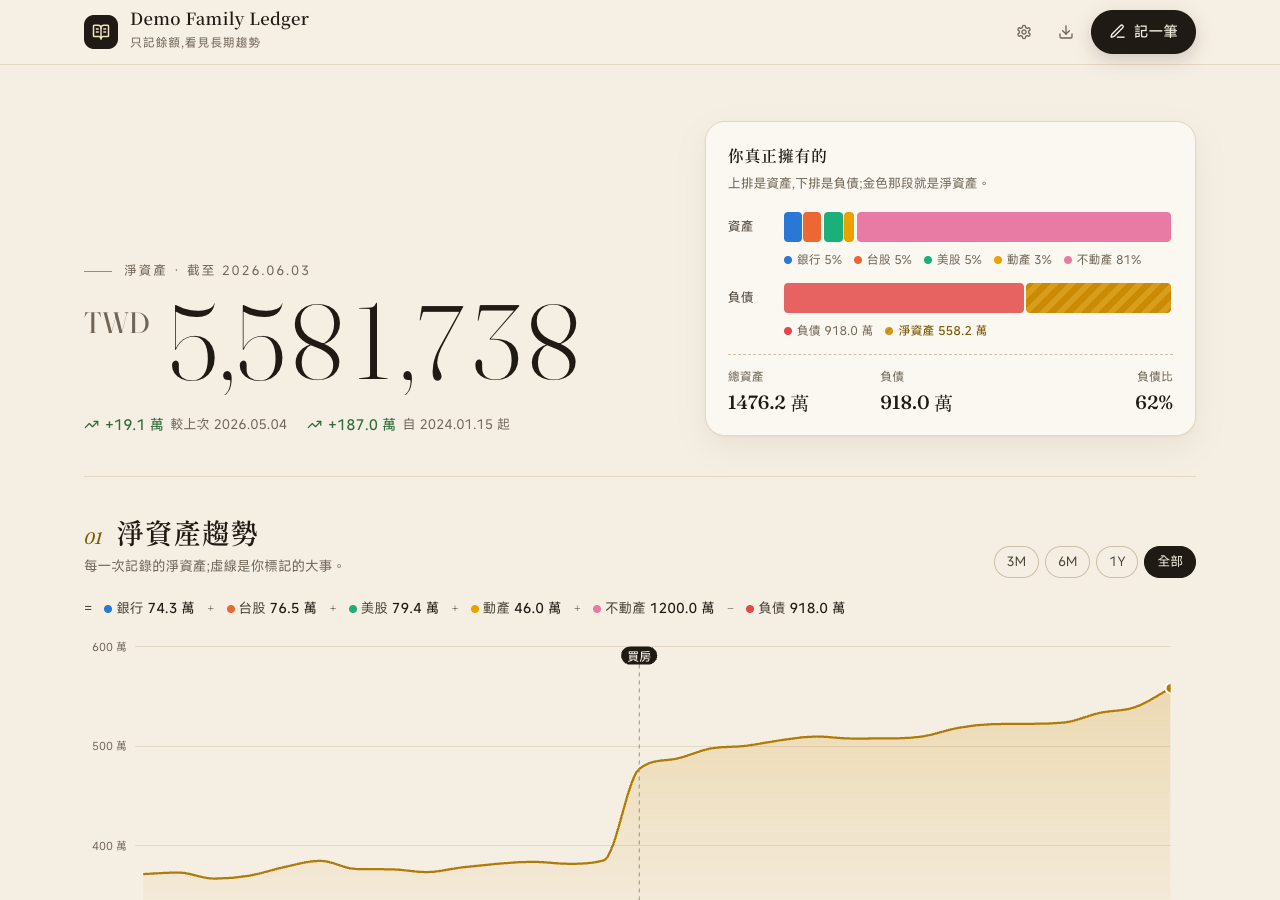
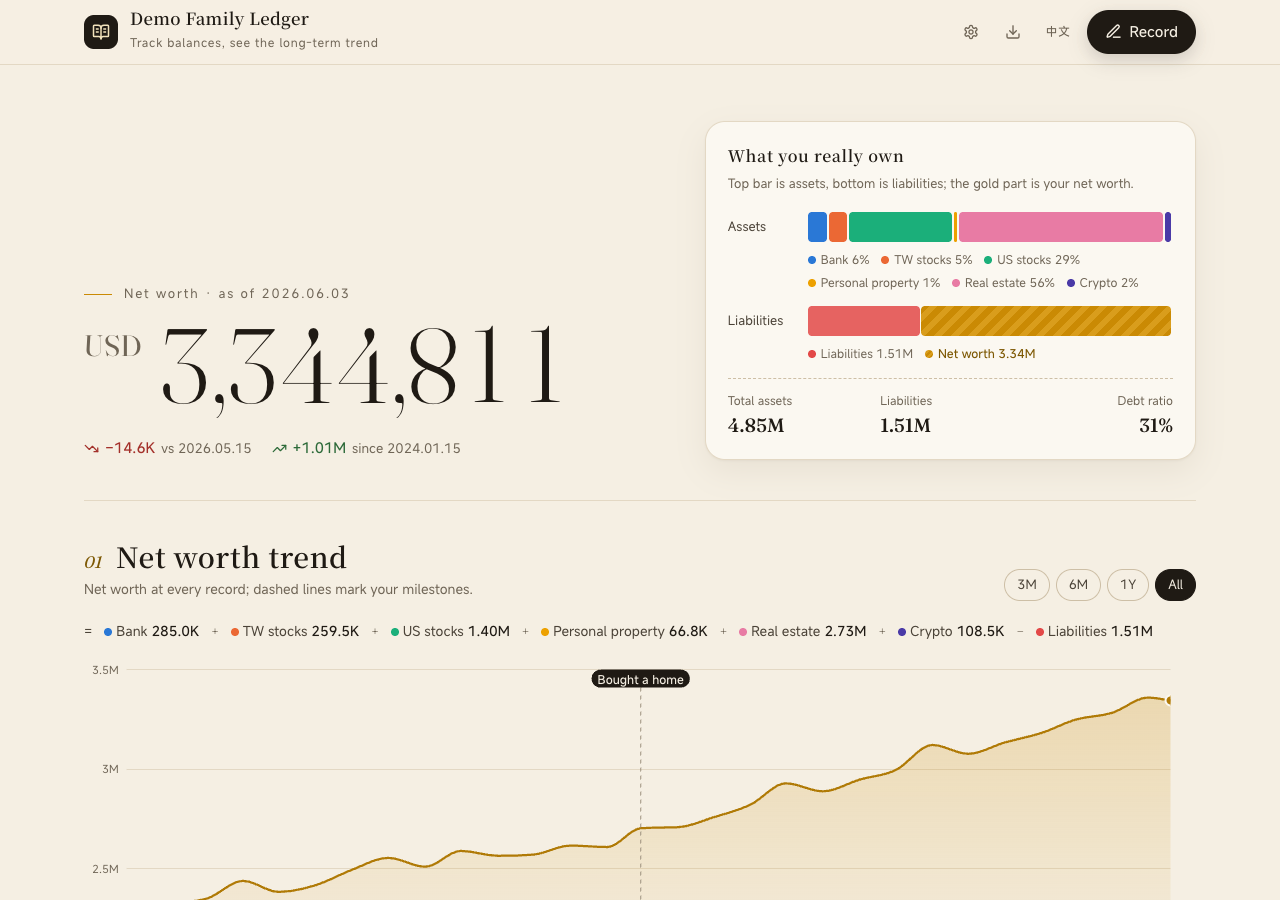
docs: English-first README, per-language screenshots
- README.md is now English; the Chinese README moves to
  docs/README.zh-TW.md
- new demo screenshots: USD ledger in the English UI, TWD ledger
  (net worth ~1.08億) in the Chinese UI
- feature tables mention the bilingual UI

Claude-Session: https://claude.ai/code/session_01CVaNqET9EYhqHLhm8LeRL5

diff --git a/README.md b/README.md
@@ -1,49 +1,52 @@
 <div align="center">
   <img src="docs/logo.svg" alt="wealth logo" width="96" />
   <h1>wealth</h1>
-  <p><b>只記餘額的家庭資產帳本</b><br>不記每一筆消費,想到時更新帳戶餘額,就看得到淨資產的長期趨勢。</p>
+  <p><b>A household net-worth ledger that tracks balances, not transactions.</b><br>Update your account balances now and then; see where your net worth is heading.</p>
 </div>
 
 <p align="center">
   <a href="https://github.com/SammyLin/wealth/actions/workflows/test.yml"><img alt="test" src="https://github.com/SammyLin/wealth/actions/workflows/test.yml/badge.svg" /></a>
   <a href="LICENSE"><img alt="License: MIT" src="https://img.shields.io/github/license/SammyLin/wealth?style=flat-square" /></a>
   <a href="go.mod"><img alt="Go" src="https://img.shields.io/github/go-mod/go-version/SammyLin/wealth?style=flat-square" /></a>
-  <a href="#部署到-cloudflare-workers"><img alt="Cloudflare Workers" src="https://img.shields.io/badge/Cloudflare_Workers-supported-F38020?style=flat-square" /></a>
-  <a href="#自架"><img alt="Self-host" src="https://img.shields.io/badge/self--host-SQLite-003B57?style=flat-square" /></a>
+  <a href="#deploy-to-cloudflare-workers"><img alt="Cloudflare Workers" src="https://img.shields.io/badge/Cloudflare_Workers-supported-F38020?style=flat-square" /></a>
+  <a href="#self-host"><img alt="Self-host" src="https://img.shields.io/badge/self--host-SQLite-003B57?style=flat-square" /></a>
 </p>
 
 <p align="center">
-  繁體中文 | <a href="docs/README.en.md">English</a>
+  English | <a href="docs/README.zh-TW.md">繁體中文</a>
 </p>
 
 ![screenshot](docs/screenshot.png)
 
-## 為什麼
+> The UI is in Traditional Chinese and amounts are shown in 萬 (10,000) units. Contributions for other languages are welcome.
 
-記帳 App 大多要你記下每一筆消費。持續記半年的人不多,而真正想知道的通常只是:**我們家的錢,這幾年是變多還是變少?**
+## Why
 
-wealth 只做這件事。每個帳戶(銀行、證券、房子、房貸)偶爾記一次餘額,其餘交給它:
+Most budgeting apps want every single expense. Few people keep that up for long, and the question most households actually have is simpler: **is our money growing or shrinking over the years?**
 
-- **沒更新的帳戶自動沿用上一筆**,不會因為少記一個帳戶,淨資產就像掉下去。
-- **外幣照當天匯率換算**,自動抓匯率,美股不會被匯率記成一團亂。
-- **大事會畫在圖上**:買房、換工作這類轉折,回頭看曲線時一眼對得上。
-- **房貸看得到未來**:寬限期何時結束、月付哪個月會跳、何時繳清。
+wealth answers just that. Record a balance for each account (bank, brokerage, house, mortgage) whenever you remember, and it does the rest:
 
-## 功能
+- **Accounts you skip carry their last balance forward**, so forgetting one account doesn't look like a crash.
+- **Foreign currencies use that day's rate**, fetched automatically.
+- **Life events are drawn on the chart** (buying a house, a new job), so turns in the curve explain themselves.
+- **Mortgages show the future**: when the interest-only period ends, which month the payment jumps, when it's paid off.
+
+## Features
 
 | | |
 |---|---|
-| **淨資產趨勢** | 曲線按實際日期排,不均勻的記錄間隔不會被拉平;拖曳可放大某段期間 |
-| **資產組成** | 各類資產堆疊圖,可複選只看幾類 |
-| **資產負債表** | 資產 = 負債 + 淨資產,兩邊合計相等 |
-| **房貸** | 本金、利率、撥款日、寬限期、期數 → 每月月付、月付變化、繳清日 |
-| **多幣別** | 每筆紀錄存當天匯率,「記一筆」自動帶入;基準幣別可設定 |
-| **全部可改** | 帳本名稱、帳戶、過去每筆餘額、貸款、大事都能編輯或刪除 |
-| **匯出** | CSV(Excel 直接開);自架版另有完整 `.db` 下載與每日自動備份 |
+| **Net-worth trend** | Plotted on real dates, so uneven gaps stay uneven; drag to zoom into a period |
+| **Composition** | Stacked chart by asset class, multi-select filter |
+| **Balance sheet** | Assets = liabilities + net worth, both sides add up |
+| **Mortgages** | Principal, rate, start date, grace period, term → monthly payment, payment changes, payoff date |
+| **Multi-currency** | Each record stores that day's FX rate, prefilled automatically; configurable base currency |
+| **Everything editable** | Ledger name, accounts, every past balance, loans and events can be edited or deleted |
+| **English & 繁體中文** | UI follows the browser language; switch anytime from the top bar |
+| **Export** | CSV (opens in Excel); self-hosted also offers a full `.db` download and daily backups |
 
-## 快速開始
+## Quick start
 
-需要 Go 1.25+。
+Requires Go 1.25+.
 
 ```sh
 git clone https://github.com/SammyLin/wealth.git
@@ -51,67 +54,67 @@ cd wealth
 go run ./cmd/wealth
 ```
 
-打開 http://127.0.0.1:8080:
+Open http://127.0.0.1:8080:
 
-1. **⚙ 設定**:帳本名稱、基準幣別(開始記帳後就不能改)
-2. **新增帳戶**:名稱、類別(銀行/台股/美股/動產/不動產/加密貨幣/負債)、幣別
-3. **記一筆**:填各帳戶目前餘額,外幣匯率自動帶入
-4. 之後每隔一陣子再「記一筆」,改有變動的帳戶就好
+1. **⚙ Settings**: ledger name and base currency (locked once you record balances)
+2. **新增帳戶 (add account)**: name, kind (bank / TW stocks / US stocks / movable / real estate / crypto / liability), currency
+3. **記一筆 (record)**: enter current balances; FX rates are filled in for you
+4. Come back every so often and update only what changed
 
-## 自架
+## Self-host
 
-單一執行檔 + SQLite,資料存在本機檔案。
+A single binary with SQLite on disk.
 
 ```sh
-WEALTH_PASS=secret WEALTH_ADDR=:8080 go run ./cmd/wealth   # 對外開放時必須設密碼(basic auth)
+WEALTH_PASS=secret WEALTH_ADDR=:8080 go run ./cmd/wealth   # a password is required on non-localhost addresses
 ```
 
-| 環境變數 | 預設 | 說明 |
+| Variable | Default | Meaning |
 |---|---|---|
-| `WEALTH_DB` | `wealth.db` | SQLite 檔案 |
-| `WEALTH_ADDR` | `127.0.0.1:8080` | 監聽位址;不是本機位址時一定要設 `WEALTH_PASS` |
-| `WEALTH_USER` / `WEALTH_PASS` | `me` / 空 | basic auth |
-| `WEALTH_BACKUP_DIR` | `backups` | 每天自動備份一份,保留最近 30 份 |
+| `WEALTH_DB` | `wealth.db` | SQLite file |
+| `WEALTH_ADDR` | `127.0.0.1:8080` | Listen address; `WEALTH_PASS` is required unless it's localhost |
+| `WEALTH_USER` / `WEALTH_PASS` | `me` / empty | Basic auth |
+| `WEALTH_BACKUP_DIR` | `backups` | Daily backup, newest 30 kept |
 
-備份請用 SQLite 的線上備份,不要直接 `cp`(WAL 模式下資料可能還在 `-wal` 檔裡):
+Back up with SQLite's online backup, never `cp` (in WAL mode recent data may still be in the `-wal` file):
 
 ```sh
 sqlite3 wealth.db ".backup wealth-$(date +%F).db"
 ```
 
-## 部署到 Cloudflare Workers
+## Deploy to Cloudflare Workers
 
-同一份 Go 程式編成 WebAssembly 跑在 Workers 上([syumai/workers-go](https://github.com/syumai/workers-go)),資料存 D1。
+The same Go code compiles to WebAssembly and runs on Workers ([syumai/workers-go](https://github.com/syumai/workers-go)), with data in D1.
 
-1. `npx wrangler d1 create wealth`,把 `wrangler.jsonc` 複製成 `wrangler.local.jsonc`,填入 database id 和網域。
-2. 在 Cloudflare Zero Trust 建一個 Access application 保護這個網域,把團隊網域和 AUD tag 填進 `vars`。
-   **Worker 會驗證 Access 的 JWT;沒設定時會拒絕服務**(除非明確設 `ALLOW_PUBLIC=1`)。
-3. `make deploy-worker`(套用 migration 並部署)。
+1. `npx wrangler d1 create wealth`, copy `wrangler.jsonc` to `wrangler.local.jsonc`, fill in the database id and your domain.
+2. In Cloudflare Zero Trust, create an Access application for that domain and put the team domain and AUD tag in `vars`.
+   **The Worker verifies the Access JWT and refuses to serve without it** (unless you explicitly set `ALLOW_PUBLIC=1`).
+3. `make deploy-worker` (applies migrations, then deploys).
 
-> wasm 壓縮後約 6.6 MB,超過 Workers 免費方案的 3 MB 上限,需要 Workers Paid。D1 內建 30 天 Time Travel,可還原到任一時間點。
+> The wasm is about 6.6 MB gzipped, above the Workers free plan's 3 MB limit, so Workers Paid is required. D1 Time Travel can restore any point in the last 30 days.
 
-## 架構
+## Architecture
 
-| 檔案 | 內容 |
+| File | What it holds |
 |---|---|
-| `cmd/wealth/server.go` | 自架入口:SQLite、gzip、basic auth |
-| `cmd/wealth/worker.go` | Workers 入口:D1、Access 驗證 |
-| `internal/ledger/router.go` | 所有頁面與 API 路由(兩種部署共用) |
-| `internal/ledger/model.go` | 資料型別、各日期淨值序列、輸入檢查 |
-| `internal/ledger/store.go` | 設定與貸款的資料庫讀取 |
-| `internal/ledger/fx.go` | 匯率查詢 |
-| `internal/ledger/loan.go` | 寬限期只繳息 → 本息平均攤還的月付與餘額計算 |
-| `internal/ledger/access.go` | Cloudflare Access JWT 驗證 |
-| `internal/ledger/export.go` | CSV 匯出 |
-| `internal/ledger/backup.go` | 自架版的 .db 下載與每日備份 |
-| `embed.go` | 把 `web/` 和 `migrations/` 編進執行檔 |
-| `migrations/` | 資料表(兩種部署共用) |
-| `web/index.html` | 前端(單一檔案;Chart.js 捲到圖表時才載入) |
-| `web/icons.js` | 用到的 [lucide](https://lucide.dev) 圖示子集,由 `web/mkicons.cjs` 產生 |
+| `cmd/wealth/server.go` | Self-hosted entry: SQLite, gzip, basic auth |
+| `cmd/wealth/worker.go` | Workers entry: D1, Access verification |
+| `internal/ledger/router.go` | Every page and API route (shared by both targets) |
+| `internal/ledger/model.go` | Data types, net-worth series per date, input checks |
+| `internal/ledger/store.go` | Settings and loan queries |
+| `internal/ledger/fx.go` | Exchange-rate lookup |
+| `internal/ledger/loan.go` | Interest-only grace period → level-payment schedule and balance |
+| `internal/ledger/access.go` | Cloudflare Access JWT verification |
+| `internal/ledger/export.go` | CSV export |
+| `internal/ledger/backup.go` | Self-hosted .db download and daily backups |
+| `embed.go` | Compiles `web/` and `migrations/` into the binary |
+| `migrations/` | Schema (shared by both targets) |
+| `web/index.html` | Frontend (single file; Chart.js loads when a chart scrolls into view) |
+| `web/icons.js` | Subset of [lucide](https://lucide.dev) icons, generated by `web/mkicons.cjs` |
 
-## 參與
+## Contributing
 
-歡迎 issue 和 PR,開發方式見 [CONTRIBUTING.md](CONTRIBUTING.md)。
+Issues and PRs are welcome. See [CONTRIBUTING.md](CONTRIBUTING.md).
 
 ## License
 

diff --git a/docs/README.zh-TW.md b/docs/README.zh-TW.md
@@ -1,0 +1,119 @@
+<div align="center">
+  <img src="logo.svg" alt="wealth logo" width="96" />
+  <h1>wealth</h1>
+  <p><b>只記餘額的家庭資產帳本</b><br>不記每一筆消費,想到時更新帳戶餘額,就看得到淨資產的長期趨勢。</p>
+</div>
+
+<p align="center">
+  <a href="https://github.com/SammyLin/wealth/actions/workflows/test.yml"><img alt="test" src="https://github.com/SammyLin/wealth/actions/workflows/test.yml/badge.svg" /></a>
+  <a href="../LICENSE"><img alt="License: MIT" src="https://img.shields.io/github/license/SammyLin/wealth?style=flat-square" /></a>
+  <a href="../go.mod"><img alt="Go" src="https://img.shields.io/github/go-mod/go-version/SammyLin/wealth?style=flat-square" /></a>
+  <a href="#部署到-cloudflare-workers"><img alt="Cloudflare Workers" src="https://img.shields.io/badge/Cloudflare_Workers-supported-F38020?style=flat-square" /></a>
+  <a href="#自架"><img alt="Self-host" src="https://img.shields.io/badge/self--host-SQLite-003B57?style=flat-square" /></a>
+</p>
+
+<p align="center">
+  <a href="../README.md">English</a> | 繁體中文
+</p>
+
+![screenshot](screenshot.zh-TW.png)
+
+## 為什麼
+
+記帳 App 大多要你記下每一筆消費。持續記半年的人不多,而真正想知道的通常只是:**我們家的錢,這幾年是變多還是變少?**
+
+wealth 只做這件事。每個帳戶(銀行、證券、房子、房貸)偶爾記一次餘額,其餘交給它:
+
+- **沒更新的帳戶自動沿用上一筆**,不會因為少記一個帳戶,淨資產就像掉下去。
+- **外幣照當天匯率換算**,自動抓匯率,美股不會被匯率記成一團亂。
+- **大事會畫在圖上**:買房、換工作這類轉折,回頭看曲線時一眼對得上。
+- **房貸看得到未來**:寬限期何時結束、月付哪個月會跳、何時繳清。
+
+## 功能
+
+| | |
+|---|---|
+| **淨資產趨勢** | 曲線按實際日期排,不均勻的記錄間隔不會被拉平;拖曳可放大某段期間 |
+| **資產組成** | 各類資產堆疊圖,可複選只看幾類 |
+| **資產負債表** | 資產 = 負債 + 淨資產,兩邊合計相等 |
+| **房貸** | 本金、利率、撥款日、寬限期、期數 → 每月月付、月付變化、繳清日 |
+| **多幣別** | 每筆紀錄存當天匯率,「記一筆」自動帶入;基準幣別可設定 |
+| **全部可改** | 帳本名稱、帳戶、過去每筆餘額、貸款、大事都能編輯或刪除 |
+| **中英雙語** | 介面跟著瀏覽器語言,右上角隨時切換 |
+| **匯出** | CSV(Excel 直接開);自架版另有完整 `.db` 下載與每日自動備份 |
+
+## 快速開始
+
+需要 Go 1.25+。
+
+```sh
+git clone https://github.com/SammyLin/wealth.git
+cd wealth
+go run ./cmd/wealth
+```
+
+打開 http://127.0.0.1:8080:
+
+1. **⚙ 設定**:帳本名稱、基準幣別(開始記帳後就不能改)
+2. **新增帳戶**:名稱、類別(銀行/台股/美股/動產/不動產/加密貨幣/負債)、幣別
+3. **記一筆**:填各帳戶目前餘額,外幣匯率自動帶入
+4. 之後每隔一陣子再「記一筆」,改有變動的帳戶就好
+
+## 自架
+
+單一執行檔 + SQLite,資料存在本機檔案。
+
+```sh
+WEALTH_PASS=secret WEALTH_ADDR=:8080 go run ./cmd/wealth   # 對外開放時必須設密碼(basic auth)
+```
+
+| 環境變數 | 預設 | 說明 |
+|---|---|---|
+| `WEALTH_DB` | `wealth.db` | SQLite 檔案 |
+| `WEALTH_ADDR` | `127.0.0.1:8080` | 監聽位址;不是本機位址時一定要設 `WEALTH_PASS` |
+| `WEALTH_USER` / `WEALTH_PASS` | `me` / 空 | basic auth |
+| `WEALTH_BACKUP_DIR` | `backups` | 每天自動備份一份,保留最近 30 份 |
+
+備份請用 SQLite 的線上備份,不要直接 `cp`(WAL 模式下資料可能還在 `-wal` 檔裡):
+
+```sh
+sqlite3 wealth.db ".backup wealth-$(date +%F).db"
+```
+
+## 部署到 Cloudflare Workers
+
+同一份 Go 程式編成 WebAssembly 跑在 Workers 上([syumai/workers-go](https://github.com/syumai/workers-go)),資料存 D1。
+
+1. `npx wrangler d1 create wealth`,把 `wrangler.jsonc` 複製成 `wrangler.local.jsonc`,填入 database id 和網域。
+2. 在 Cloudflare Zero Trust 建一個 Access application 保護這個網域,把團隊網域和 AUD tag 填進 `vars`。
+   **Worker 會驗證 Access 的 JWT;沒設定時會拒絕服務**(除非明確設 `ALLOW_PUBLIC=1`)。
+3. `make deploy-worker`(套用 migration 並部署)。
+
+> wasm 壓縮後約 6.6 MB,超過 Workers 免費方案的 3 MB 上限,需要 Workers Paid。D1 內建 30 天 Time Travel,可還原到任一時間點。
+
+## 架構
+
+| 檔案 | 內容 |
+|---|---|
+| `cmd/wealth/server.go` | 自架入口:SQLite、gzip、basic auth |
+| `cmd/wealth/worker.go` | Workers 入口:D1、Access 驗證 |
+| `internal/ledger/router.go` | 所有頁面與 API 路由(兩種部署共用) |
+| `internal/ledger/model.go` | 資料型別、各日期淨值序列、輸入檢查 |
+| `internal/ledger/store.go` | 設定與貸款的資料庫讀取 |
+| `internal/ledger/fx.go` | 匯率查詢 |
+| `internal/ledger/loan.go` | 寬限期只繳息 → 本息平均攤還的月付與餘額計算 |
+| `internal/ledger/access.go` | Cloudflare Access JWT 驗證 |
+| `internal/ledger/export.go` | CSV 匯出 |
+| `internal/ledger/backup.go` | 自架版的 .db 下載與每日備份 |
+| `embed.go` | 把 `web/` 和 `migrations/` 編進執行檔 |
+| `migrations/` | 資料表(兩種部署共用) |
+| `web/index.html` | 前端(單一檔案;Chart.js 捲到圖表時才載入) |
+| `web/icons.js` | 用到的 [lucide](https://lucide.dev) 圖示子集,由 `web/mkicons.cjs` 產生 |
+
+## 參與
+
+歡迎 issue 和 PR,開發方式見 [CONTRIBUTING.md](../CONTRIBUTING.md)。
+
+## License
+
+[MIT](../LICENSE)
